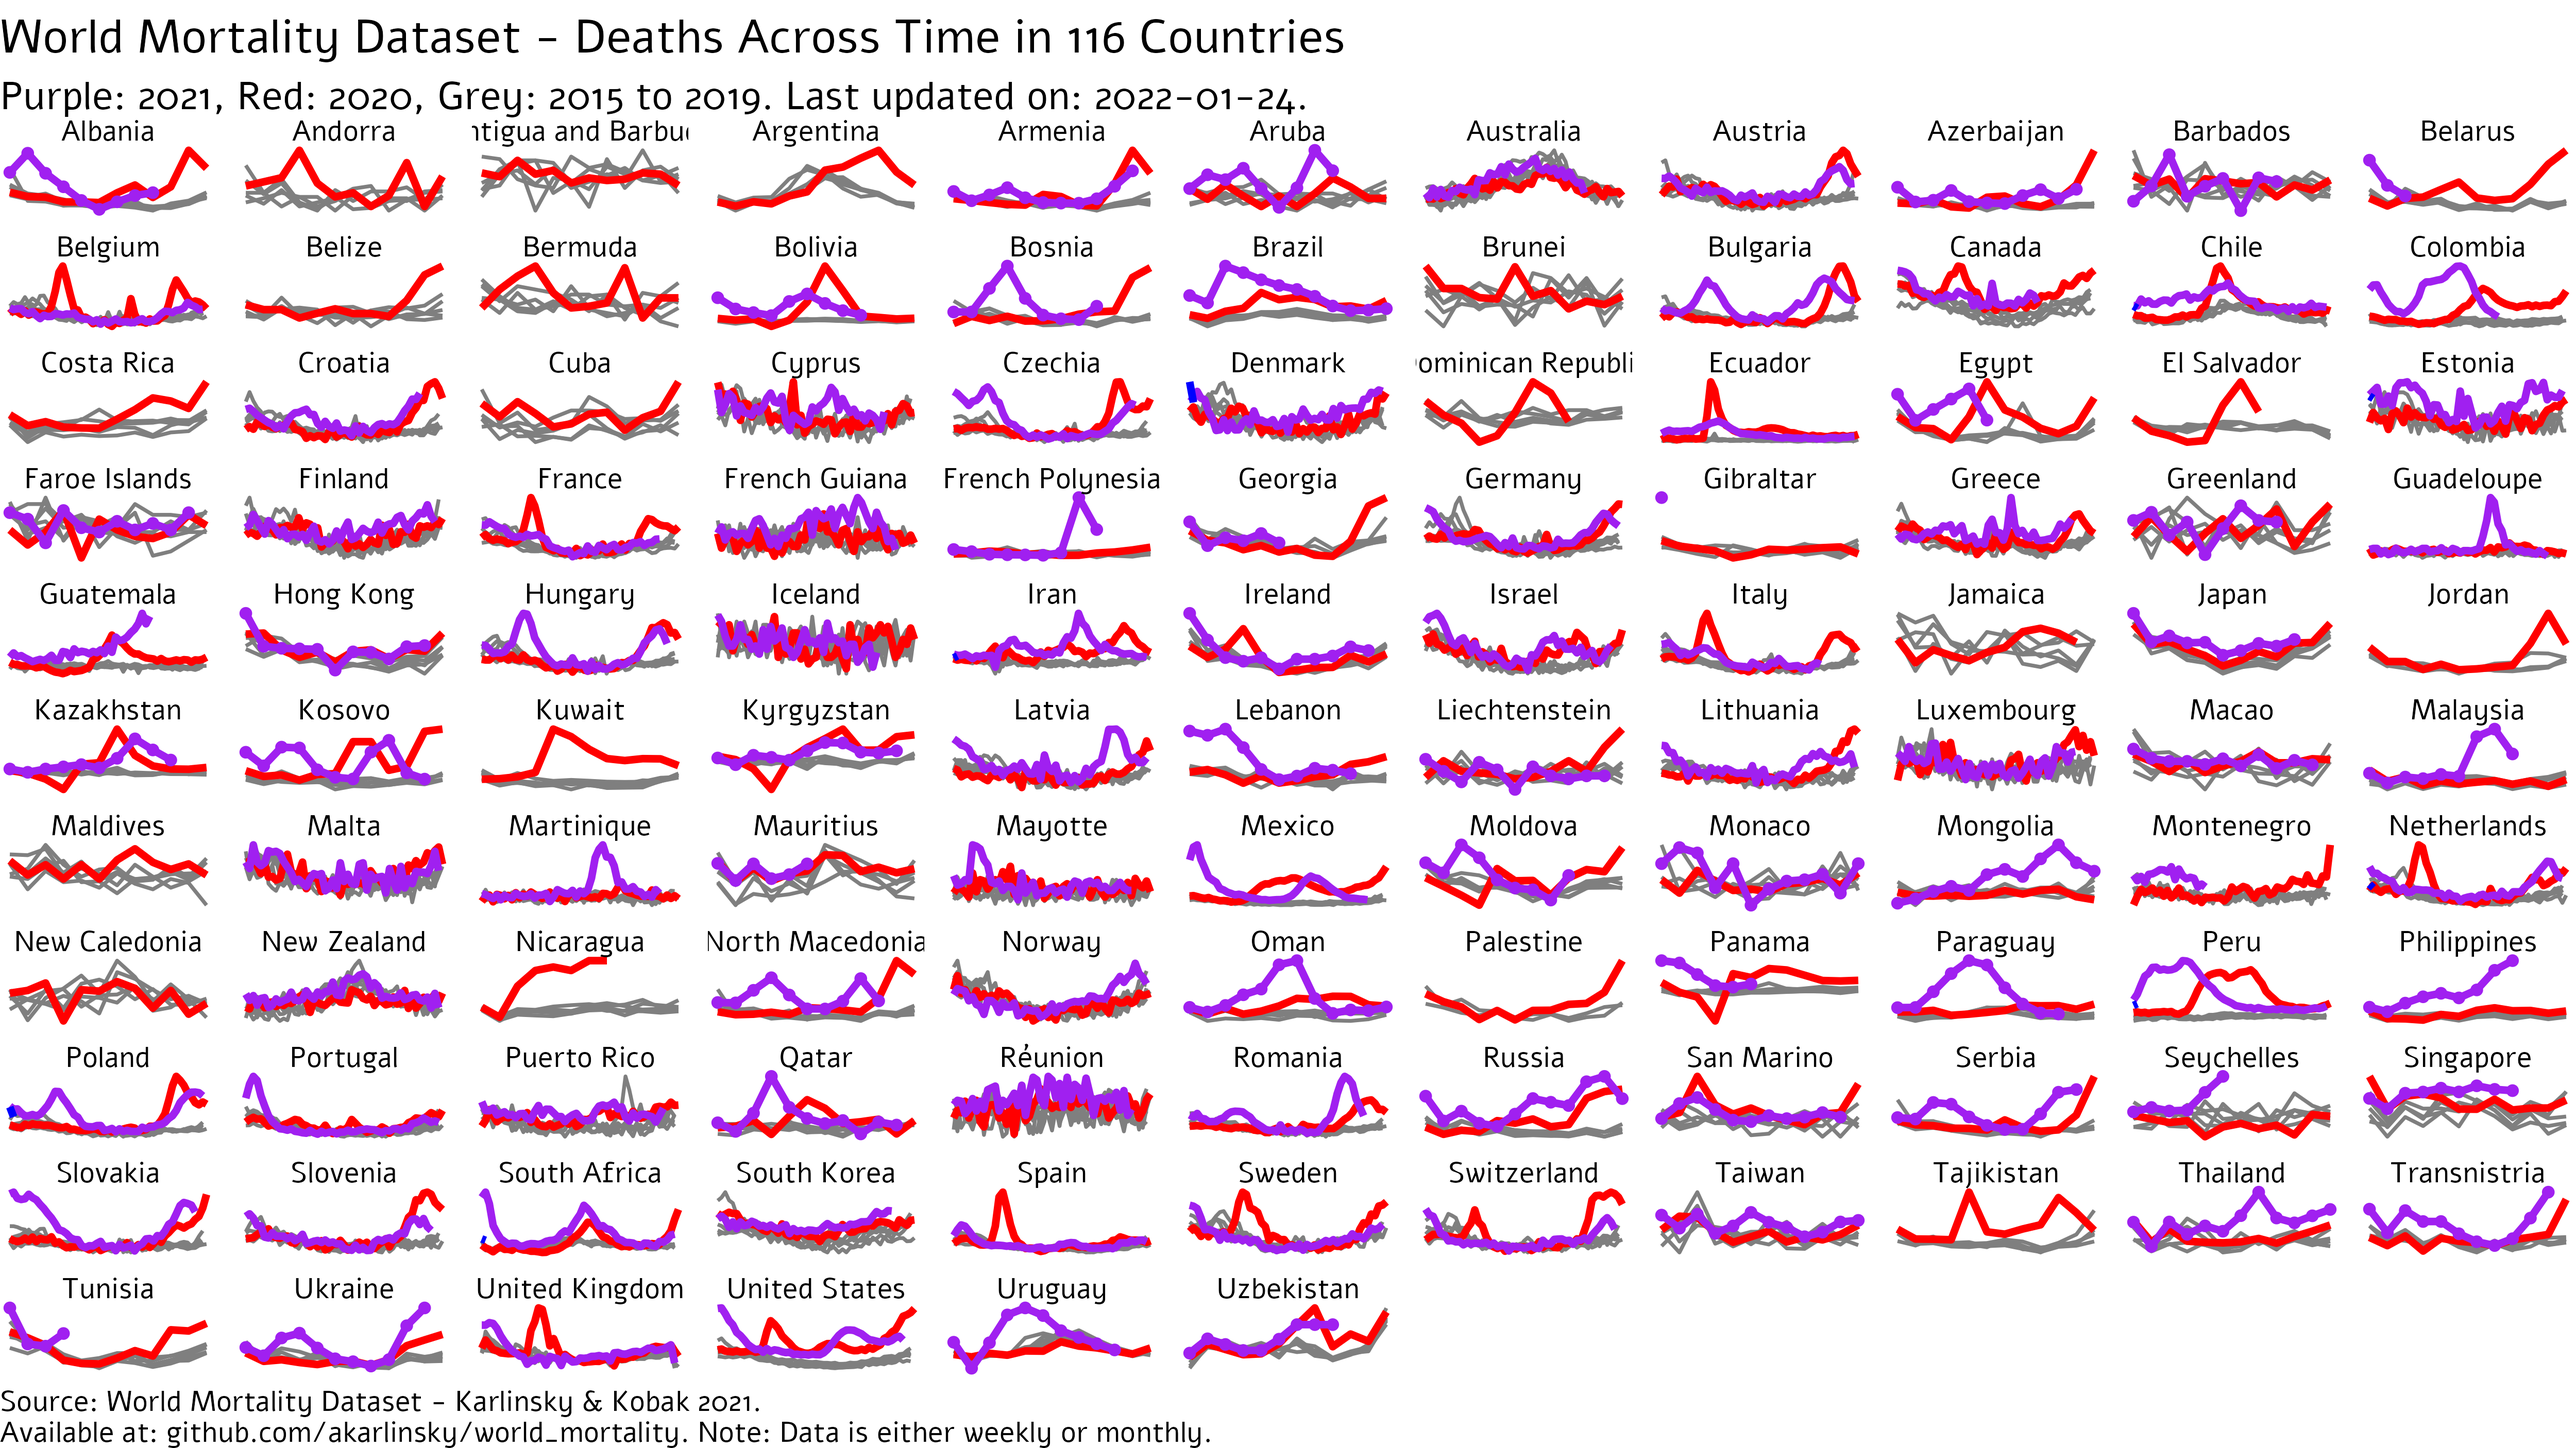
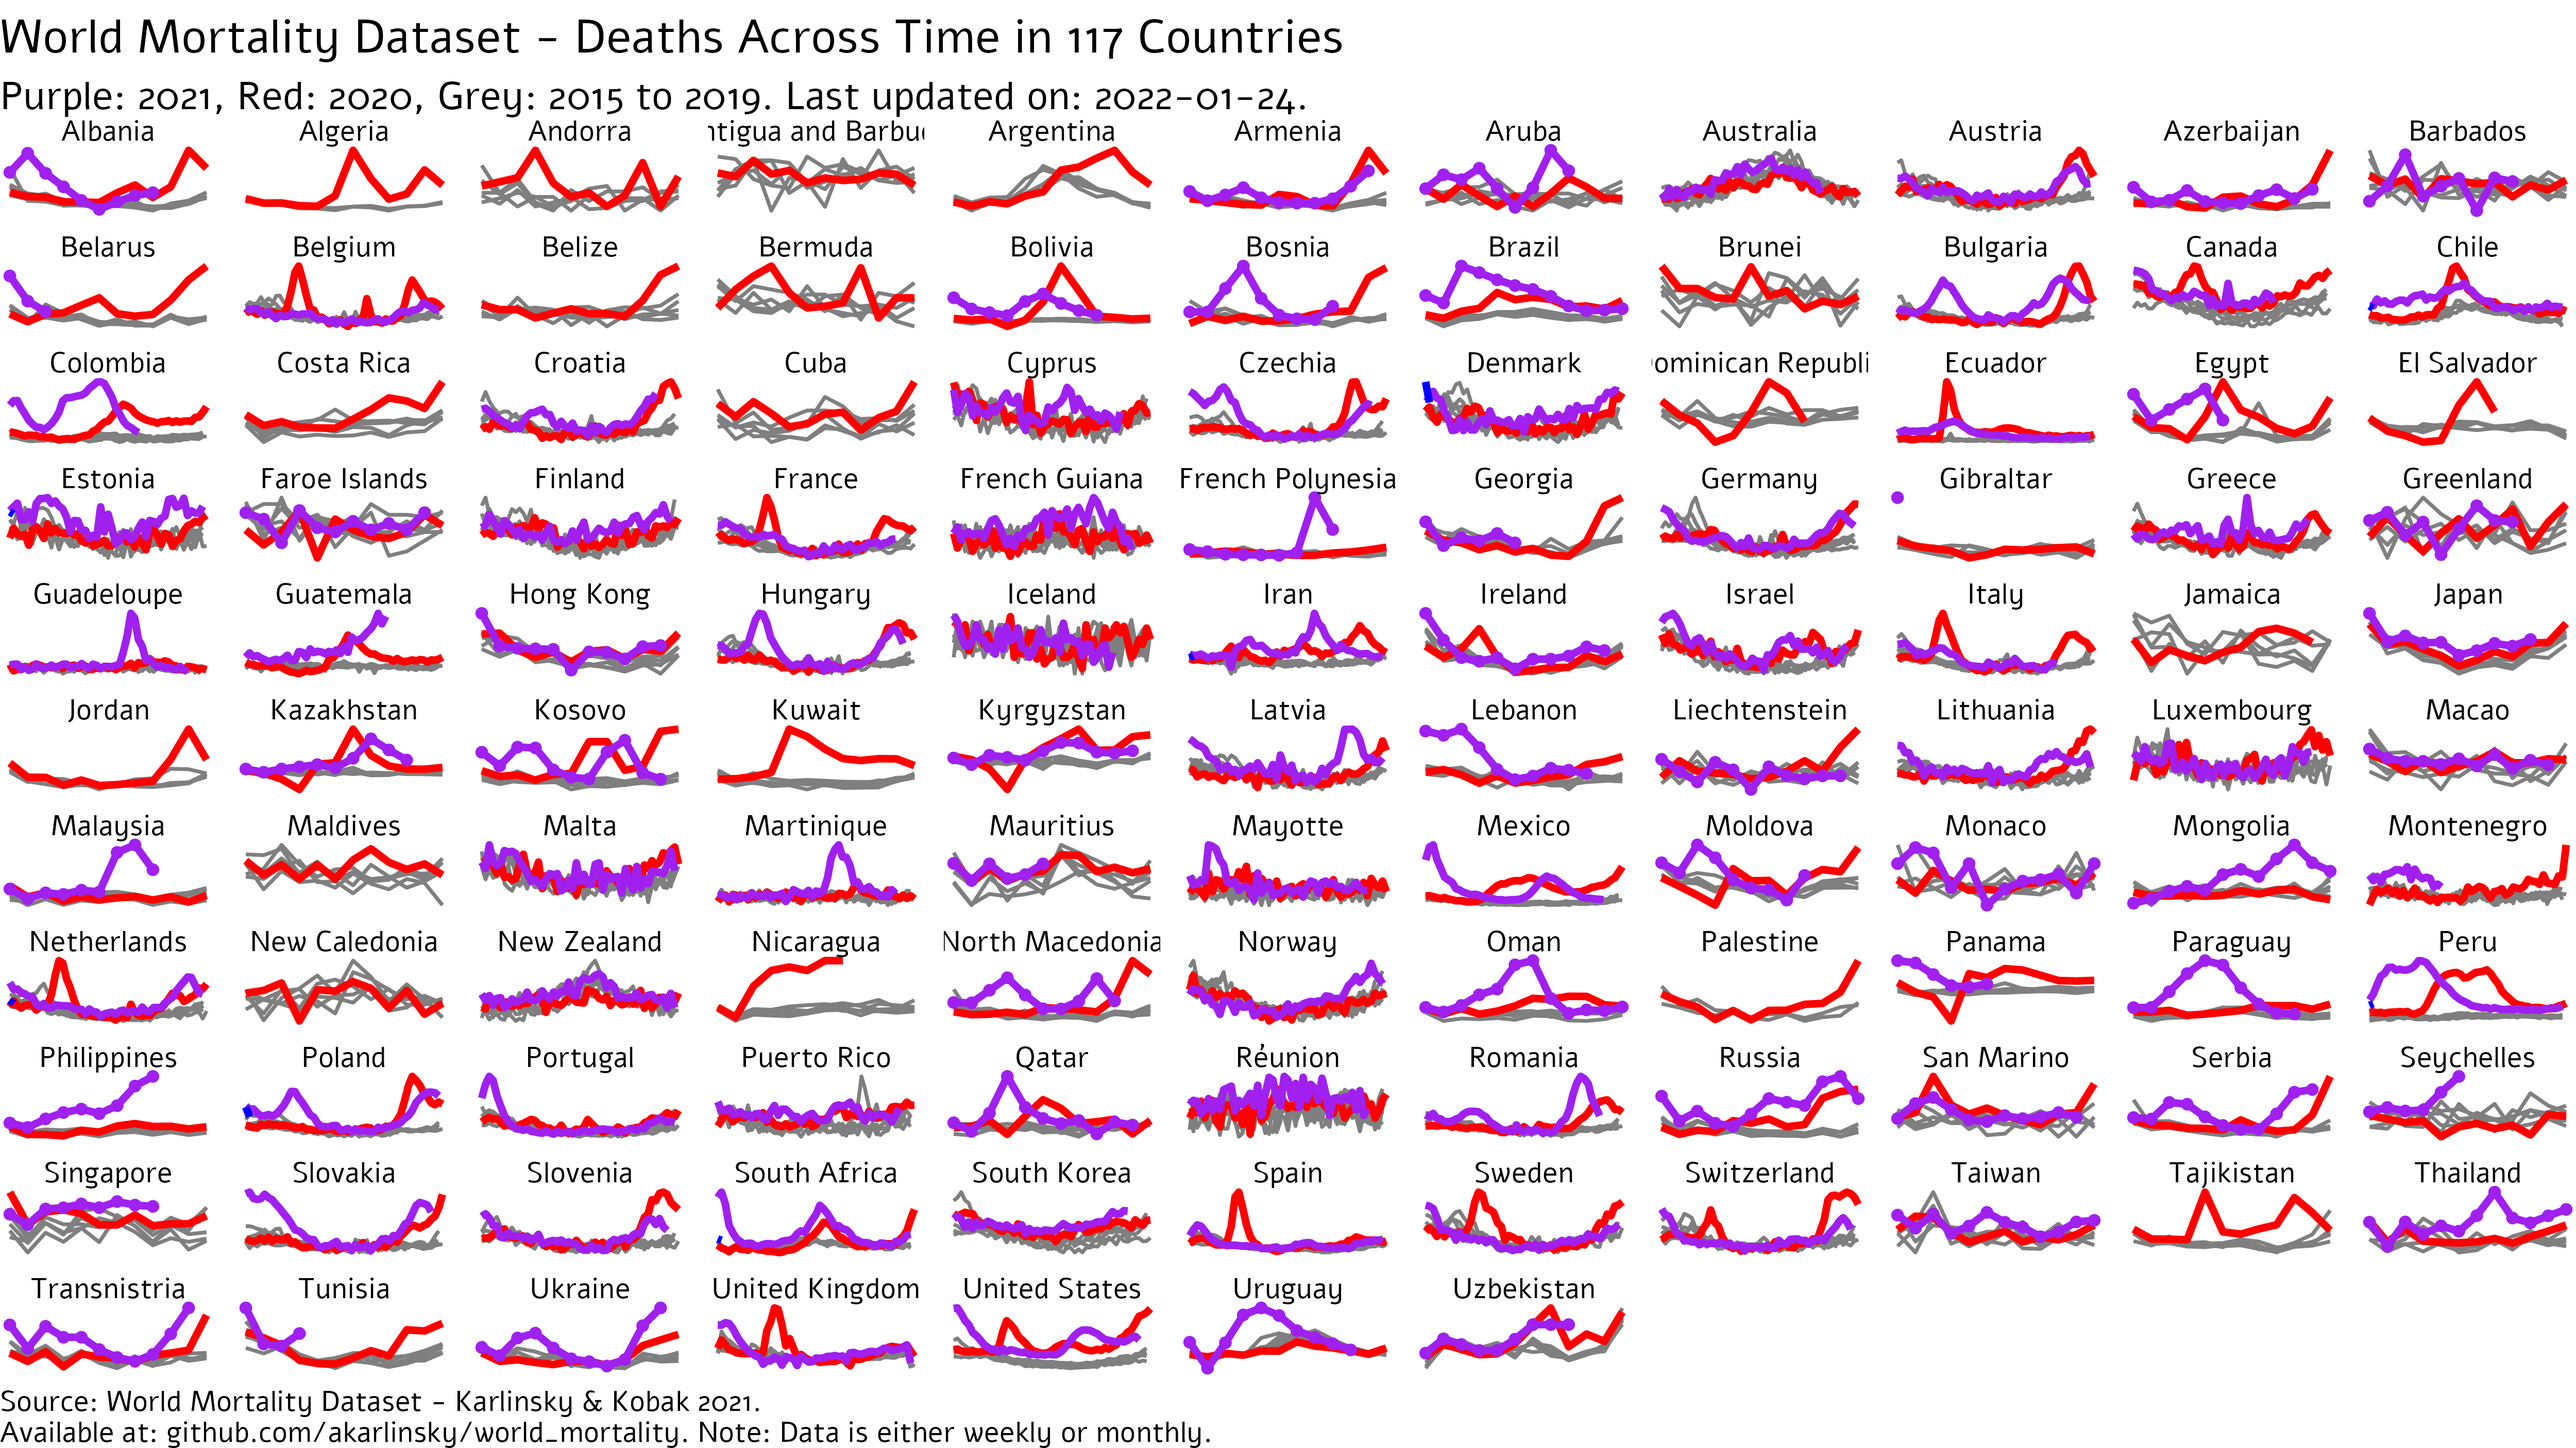
2022-01-24 Update 2
New country: Algeria (monthly 2018-2020).

Changed region(s): [[0.0, 0.0619, 0.9984, 0.9591], [0.7488, 0.0619, 0.78, 0.0928], [0.468, 0.0, 0.4992, 0.0309]]

diff --git a/README.md b/README.md
@@ -1,7 +1,7 @@
 # World Mortality Dataset
 
 This repository contains country-level data on all-cause mortality in 2015–2021 collected from various sources, see below.   
-We are currently providing data for 116 countries and territories.   
+We are currently providing data for 117 countries and territories.   
 We welcome any contributions.
 
 If you use this data, please cite it as:    
@@ -53,6 +53,12 @@ French Guiana, Guadeloupe, Martinique, Mayotte, Réunion: https://ec.europa.eu/e
 2016 to 2018: UNData: http://data.un.org/Data.aspx?d=POP&f=tableCode:65;countryCode:8&c=2,3,6,8,10,12,13,14&s=_countryEnglishNameOrderBy:asc,refYear:desc,areaCode:asc&v=1
 
 2015, 2019 onward: Email correspondence with [Albania Institute of Statistics](http://www.instat.gov.al/en/).
+
+### Algeria (monthly)
+2018 to 2020: Office National des Statistiques
+[Démographie Algérienne](https://www.ons.dz/spip.php?rubrique182).
+
+2018-2019 values were digitized using [WebPlotDigitizer](https://github.com/ankitrohatgi/WebPlotDigitizer). These are shown with one significant digit to emphasize this.
 
 
 ### Andorra (monthly)
